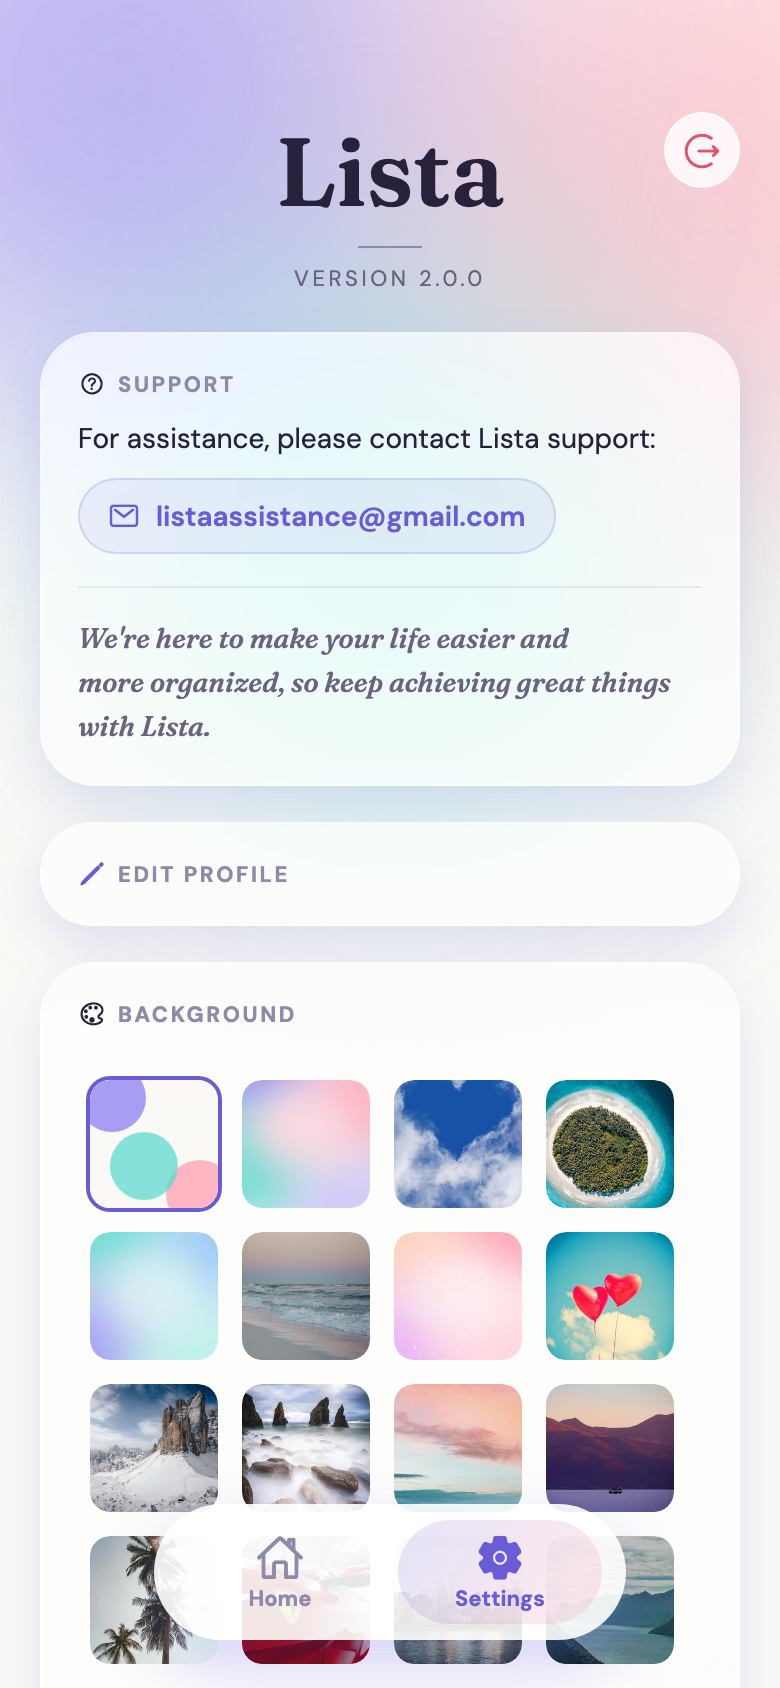
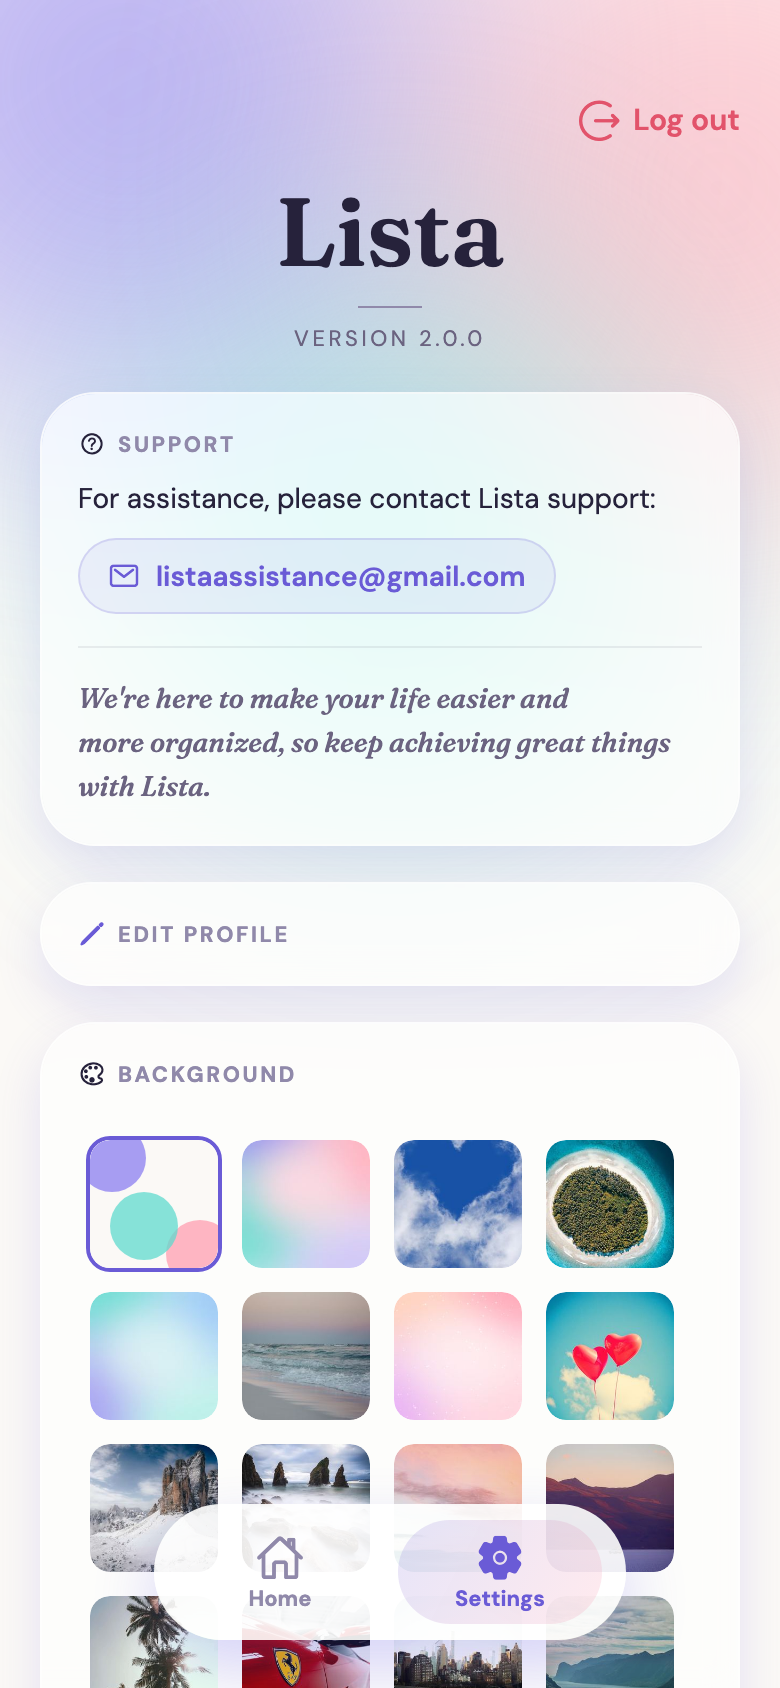
Show a labelled "Log out" button in the top corner of Settings
WHY: the Logout button was a small white circle (38 px) holding a thin 17 px
icon, so it was easy to miss, hard to tap, and it was not clear what it did.
It also did not match the list screen, where buttons sit directly on the page.

WHAT:
- Settings: the button now shows a subtle red icon with the words "Log out"
  beside it (only the first letter capitalized, like the rest of the app), in
  the top right corner above the title. There is no circle, border or
  background behind it.
- At least 44 x 44 px to tap (it measures 90 x 44). It is part of the page
  column rather than floating on top of it, so it follows the same side
  spacing and the centered column on wide screens, and always stays on screen.
  The title moves down about 30 px to make room.
- The button is a real button with the accessible name "Log out". What it does
  is unchanged: it logs the person out at once.
- Screenshots: the three Settings pictures (README and feature guide) were
  retaken with the new button.
- Documentation: README, feature guide and design notes describe the new
  button; the test counts in the README badge and the testing notes now say 81
  backend tests (they still said 73); the testing notes also list the new
  browser checks.

CHECKS: type check shows the same 5 existing messages; the production build
succeeds; 41 browser checks on the button (size, position, no background,
colour, accessible name, on screen and no sideways scroll at 320, 360, 390,
[…]

diff --git a/app/(tabs)/Settings.tsx b/app/(tabs)/Settings.tsx
@@ -339,8 +339,13 @@ const Settings: React.FC<SettingsProps> = ({ setIsLoggedIn }) => {
     <PageGate preloadContent ready={picturesReady}>
       <ScrollView contentContainerStyle={[styles.container, wide && styles.containerWide]}>
         <View style={styles.headerContainer}>
-          <TouchableOpacity onPress={handleLogout} style={styles.logoutButton}>
-            <AntDesign name="logout" size={17} color={colors.danger} />
+          <TouchableOpacity
+            onPress={handleLogout}
+            style={styles.logoutButton}
+            accessibilityRole="button"
+            accessibilityLabel="Log out">
+            <AntDesign name="logout" size={20} color={colors.danger} />
+            <Text style={styles.logoutLabel}>Log out</Text>
           </TouchableOpacity>
           <View style={styles.titleBlock}>
             <Text style={styles.title}>{appName}</Text>
@@ -459,18 +464,26 @@ const styles = StyleSheet.create({
     lineHeight: 22,
     color: colors.textMuted,
   },
+  // In its own row in the top right corner, inside the page column (so it follows the same side
+  // spacing and the centered column on wide screens), with no circle or background behind it.
+  // At least 44 x 44 so it is comfortable to tap; the negative top margin lifts it into the
+  // page's top padding, so the title only moves down a little.
   logoutButton: {
-    position: 'absolute',
-    top: 0,
-    right: 0,
-    width: 38,
-    height: 38,
-    borderRadius: 19,
-    backgroundColor: colors.glassBgStrong,
-    borderWidth: 1,
-    borderColor: colors.glassBorder,
-    justifyContent: 'center',
+    alignSelf: 'flex-end',
+    flexDirection: 'row',
     alignItems: 'center',
+    justifyContent: 'center',
+    gap: 7,
+    minWidth: 44,
+    minHeight: 44,
+    paddingLeft: 10,
+    marginTop: -18,
+    marginBottom: 4,
+  },
+  logoutLabel: {
+    fontFamily: fonts.bodySemiBold,
+    fontSize: 15,
+    color: colors.danger,
   },
   containerWide: {
     // A single centered column on wide screens, a little narrower than the page.

diff --git a/docs/features.md b/docs/features.md
@@ -24,7 +24,7 @@
 | 🚪 | **Opening the app** | ⬆ | Lista 1 opened on a Welcome page that asked people to wait for the free-tier server to wake up before using the app. Lista 2 opens straight on Login |
 | 👤 | **Sign-up and login** | ⬆ | Sign up with just a username, an email and a password, and log in with either your username or your email address; every form uses the same short, plain field labels; the session renews automatically |
 | 🔑 | **Password reset by email** | ⬆ | Now a single-use link that expires after one hour |
-| ⚙ | **Edit profile and Settings** | ⬆ | Username and email only, and your profile is private. Settings keeps the support contact (now a tidier card with a tappable email), and on large screens stays in one centered column |
+| ⚙ | **Edit profile and Settings** | ⬆ | Username and email only, and your profile is private. Settings keeps the support contact (now a tidier card with a tappable email), a clearly labelled **Log out** button in the top right corner, and on large screens stays in one centered column |
 | 📱 | **Phone, tablet and desktop** | ⬆ | Adapts to every size, including landscape and iPhone, and can be added to the home screen with its own icon |
 | 💬 | **Messages after every action** | ⬆ | Short, specific messages that say what happened and what to do next |
 | 🫙 | **Empty-list messages** | 🆕 | A friendly "No items yet" on Home, in the list and in the AI box |
@@ -38,7 +38,7 @@ Lista 2 keeps all of that and improves how it looks, feels and behaves.
 | Area | Lista 1 | Lista 2 |
 |------|---------|---------|
 | **Look and feel** | Simple screens | A complete redesign: soft gradients, frosted-glass cards, elegant typography and a gentle loading animation |
-| **Home** | Each list shows its title and its first items; a Logout button beside the greeting | Cards with a progress badge and bar for every list; Logout only in Settings |
+| **Home** | Each list shows its title and its first items; a Logout button beside the greeting | Cards with a progress badge and bar for every list; Logout only in Settings, with the words "Log out" next to the icon |
 | **Loading** | A small loader on an empty page, then everything pops in | Only the three dots, from the moment the app opens, until the whole page and its pictures are ready, then the complete page; a clear message and **Try again** if it cannot load |
 | **List rows** | Handle, checkbox and trash on every row, text in one line that could slide sideways | Photo first, text that wraps inside the row, the checkbox on the right, a faint handle, all in one soft card; a progress bar on top |
 | **Deleting one item** | A trash button on every row | **Swipe left** and tap Delete, with an **Undo** message for 5 seconds (no question asked); on a computer, a two-finger swipe or the trash on hover |
@@ -90,7 +90,7 @@ Tap the lightbulb for **five related ideas** for your list. **Tick the ones you 
 
 ### 🎨 Make it yours
 - Choose a **background** from beautiful photos and gradients, or **use your own picture**. It appears on every page after you log in. A new choice is handed to every screen at once, and each keeps its old background until the new picture is complete, then switches, so you never see a blank or half-painted background.  
-- Update your profile, and log out with one tap.
+- Update your profile, and log out with one tap: a **Log out** button (a small red icon with the words beside it, no circle behind it) sits in the top right corner of Settings, in the same column as the page, so it always stays on screen.
 
 <p align="center">
   <img src="screenshots/settings.png" width="240" alt="Choosing a background in Settings">

diff --git a/docs/testing-and-process.md b/docs/testing-and-process.md
@@ -2,8 +2,8 @@
 
 # Testing, Reliability and How Lista Is Built
 
-- **Backend**: 73 automated tests replay the app's real requests and cover accounts, permissions, sharing, pictures, backgrounds and password reset (see the backend README).  
-- **Frontend**: every release is built for production (`npx expo export -p web`) and tried in a browser at phone, tablet and desktop widths and on an iPhone, including the error cases: no internet, an expired session, a refused request, a missing title, sharing with someone who is not on Lista, and a weak password.  
+- **Backend**: 81 automated tests replay the app's real requests and cover accounts, permissions, sharing, pictures, backgrounds and password reset (see the backend README).  
+- **Frontend**: every release is built for production (`npx expo export -p web`) and tried in a browser at phone, tablet and desktop widths and on an iPhone, including the error cases: no internet, an expired session, a refused request, a missing title, sharing with someone who is not on Lista, and a weak password; a new background followed by a quick move to another page (never blank or half-drawn); and the Log out button at seven screen widths from 320 to 1920 px (always on screen, never scrolling sideways).  
 - **Predictable errors**: every failure becomes one short, plain sentence.  
 - **Graceful AI failures**: if Gemini cannot be reached, the AI box says so and offers **Try again**; the list is never affected.  
 - **Known type errors**: `npx tsc --noEmit` reports 5 type errors in older files. They do not affect building or running the app.
@@ -25,7 +25,7 @@
 
 5. **Quality Assurance (QA)**  
    - Manual and automated feature testing.  
-   - The backend has **73 automated tests**; the frontend screens were checked in a browser, including the error cases above.  
+   - The backend has **81 automated tests**; the frontend screens were checked in a browser, including the error cases above.  
 
 6. **Release and Feedback**  
    - Release followed by user feedback for continuous improvement.  

diff --git a/README.md b/README.md
@@ -15,7 +15,7 @@
 
 <p align="center">
   <img src="https://img.shields.io/badge/version-2.0.0-blue" alt="Version">
-  <img src="https://img.shields.io/badge/backend%20tests-73%20passing-brightgreen" alt="Backend tests">
+  <img src="https://img.shields.io/badge/backend%20tests-81%20passing-brightgreen" alt="Backend tests">
   <img src="https://img.shields.io/badge/Expo%20SDK-51-000020" alt="Expo SDK 51">
   <img src="https://img.shields.io/badge/hosted%20on-Netlify-00C7B7" alt="Netlify">
 </p>
@@ -99,7 +99,7 @@ Phone, tablet and desktop. Add it to your home screen.
 | 🚪 | **Opening the app** | ⬆ | Lista 1 opened on a Welcome page that asked people to wait for the free-tier server to wake up before using the app. Lista 2 opens straight on Login |
 | 👤 | **Sign-up and login** | ⬆ | Sign up with just a username, an email and a password, and log in with either your username or your email address; every form uses the same short, plain field labels; the session renews automatically |
 | 🔑 | **Password reset by email** | ⬆ | Now a single-use link that expires after one hour |
-| ⚙ | **Edit profile and Settings** | ⬆ | Username and email only, and your profile is private. Settings keeps the support contact (now a tidier card with a tappable email), and on large screens stays in one centered column |
+| ⚙ | **Edit profile and Settings** | ⬆ | Username and email only, and your profile is private. Settings keeps the support contact (now a tidier card with a tappable email), a clearly labelled **Log out** button in the top right corner, and on large screens stays in one centered column |
 | 📱 | **Phone, tablet and desktop** | ⬆ | Adapts to every size, including landscape and iPhone, and can be added to the home screen with its own icon |
 | 💬 | **Messages after every action** | ⬆ | Short, specific messages that say what happened and what to do next |
 | 🫙 | **Empty-list messages** | 🆕 | A friendly "No items yet" on Home, in the list and in the AI box |

diff --git a/docs/design-and-messages.md b/docs/design-and-messages.md
@@ -16,6 +16,7 @@ and nothing in the app should make you wonder what just happened.
 ### 🧭 Easy to Understand at a Glance
 - **Home shows progress, not paperwork**: each list is a card with a progress badge (`2/5`) and a colored bar, so you see what is done without opening anything.
 - **Few buttons, clear icons**: AI ideas, Share, Check All and Delete sit together at the top right of a list, directly on the page (no circles behind them); everything else is on the page itself.
+- **A Log out button you cannot miss**: in the top right corner of Settings, an icon with the words *Log out* beside it, in a soft red, directly on the page with no circle, at least 44 × 44 px to tap, and inside the page column so it follows the same side spacing on a phone, a tablet and a desktop.
 - **A floating bottom bar**: Home and Settings sit in a white pill that floats above the content.
 - **Quiet rows**: a photo or camera tile first, the text, and the checkbox on the right, in one soft card with thin dividers; the drag handle is very faint.
 - **Checked items look checked**: struck through, with no raw symbols.
